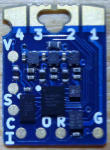
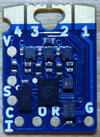
Making the hacker verse PVT distinction clearer.
* Adding PVT images.
 * Converting to a table.
 * Putting required hardware first in the requirements section.
 * Move EVT support into a note.
 * Start using `FOMU_REV` flag.

diff --git a/README.md b/README.md
@@ -36,8 +36,35 @@ FPGAs are complex, weird things, so we'll take a gentle approach and start out b
 * TOC
 {:toc}
 
-
 ## Requirements
+
+### Required Hardware
+
+For this workshop, you will need a Fomu board.
+This workshop may be competed with any model of Fomu, though there are some parts that require you to identify which model you have:
+
+|                  | Hacker | Production |
+| ---------------- | ------ | ---------- |
+| **String**       | hacker | pvt        |
+| **Bash Command** | `export FOMU_REV=hacker` | `export FOMU_REV=pvt` |
+| **Front**        | ![Hacker Hardware Front with case  ](img/hw-hacker-front-bare-small.jpg "Photo of the front of a Fomu Hacker with case")   | ![Production Hardware Front without case](img/hw-pvt-front-bare-small.jpg "Photo of the front of a Fomu Production without case")    |
+| **Back**         | ![Hacker Hardware Back without case](img/hw-hacker-back-bare-small.jpg  "Photo of the back of a Fomu Hacker without case") | ![Production Hardware Back without case ](img/hw-pvt-back-bare-small.jpg  "Photo of the back of a Fomu Production without case")  |
+| **In Case**      | ![Hacker Hardware Back with case   ](img/hw-hacker-back-case-small.jpg  "Photo of the back of a Fomu Hacker with case")    | ![Production Hardware Back with case    ](img/hw-pvt-back-case-small.jpg  "Photo of the back of a Fomu Production with case")     |
+| **Color**        | <span style="background-color: #051b70;">dark blue</span> | <span style="background-color: #03b1c4;">cyan / light blue</span> |
+| **Bootloader**   | Fomu **Hacker** running DFU Bootloader vX.X.X | Fomu **PVT** running DFU Bootloader vX.X.X |
+| **Description**  | These are the original design and cut corners to make it easier to manufacture. If you received one directly from Tim before 36C3, you probably have one of these. Hacker boards have white silkscreen on the back. | If you ordered a Fomu from Crowd Supply, this is the model you'll receive. It is small, and fits in a USB port. There is no silkscreen on it. This model of Fomu has a large silver crystal oscillator that is the tallest component on the board. |
+| **Received at**  | From Tim at 35C3, CCCamp19, HackADay Supercon 2019 | At RISC-V Summit 2019, 36C3, Crowdsupply, Mouser |
+| **Buy more**     | End of Life | [CrowdSupply](https://j.mp/fomu-cs), [Mouser](https://www.mouser.com/ProductDetail/Crowd-Supply/cs-fomu-01?qs=sGAEpiMZZMve4%2FbfQkoj%252BLGf4NUSlZIPJeHn1wSuOWc%3D) |
+
+Your Fomu should be running Foboot v1.8.7 or newer. You can see what version you are running by typing `dfu-util -l` and noting the version number.
+
+Aside from that, you need a computer with a USB port that can run the toolchain software. You should not need any special drivers, though on Linux you may need sudo access, or special udev rules to grant permission to use the USB device from a non-privileged account.
+
+> There are also Fomu EVT boards which were shipped to early backers of the
+> Fomu crowd funding campaign. This model of Fomu is about the size of a credit
+> card. It should have the text "Fomu EVT3" written across it in white
+> silkscreen. If you have a different EVT board such as EVT2 or EVT1, they
+> should work also.
 
 ### Required Files
 
@@ -109,21 +136,6 @@ Ensure it says **(Fomu build)**.  Type `exit` to quit `yosys`.
 > | **[wishbone-tool](https://github.com/xobs/wishbone-utils/)** | Interact with Fomu over USB |
 > | **serial console** | Interact with Python over a virtual console |
 
-
-### Required Hardware
-
-For this workshop, you will need a Fomu board. This workshop may be competed with any model of Fomu, though there are some parts that require you to identify which model you have:
-
-1. **Fomu EVT3**: This model of Fomu is about the size of a credit card. It should have the text "Fomu EVT3" written across it in white silkscreen. If you have a different EVT board such as EVT2 or EVT1, they should work also.
-1. **Fomu PVT1**: If you ordered a Fomu from Crowd Supply, this is the model you'll receive. It is small, and fits in a USB port. There is no silkscreen on it. This model of Fomu has a large silver crystal oscillator that is the tallest component on the board.
-1. **Fomu Hacker**: These are the original design and are easiest to manufacture. If you received one directly from Tim, you probably have one of these. Hacker boards have white silkscreen on the back.
-   ![Hacker Hardware Front with case](img/hw-hacker-front-case-small.jpg "Photo of the front of a Fomu Hacker with case")
-   ![Hacker Hardware Back with case](img/hw-hacker-back-case-small.jpg "Photo of the back of a Fomu Hacker with case")
-   ![Hacker Hardware Back without case](img/hw-hacker-back-bare-small.jpg "Photo of the back of a Fomu Hacker without case")
-
-Your Fomu should be running Foboot v1.8.7 or newer. You can see what version you are running by typing `dfu-util -l` and noting the version number.
-
-Aside from that, you need a computer with a USB port that can run the toolchain software. You should not need any special drivers, though on Linux you may need sudo access, or special udev rules to grant permission to use the USB device from a non-privileged account.
 
 ## Background
 
@@ -657,8 +669,10 @@ The canonical "Hello, world!" of hardware is to blink an LED.  The directory `ve
 
 Enter the `verilog-blink` directory and build the `verilog-blink` demo by using `make`:
 
+**Make sure you set the `FOMU_REV` value to match your hardware! See the Required Hardware section.**
+
 ```sh
-$ make FOMU_REV=hacker
+$ make FOMU_REV=$FOMU_REV
 ...
 Info: Max frequency for clock 'clk': 79.76 MHz (PASS at 12.00 MHz)
 
@@ -690,7 +704,7 @@ Info: [ 78146,  78596) |
 Info: [ 78596,  79046) |*************************
 4 warnings, 0 errors
  PACK     blink.bin
-Built 'blink' for Fomu hacker
+Built 'blink' for Fomu XXXXX
 $
 ```
 
@@ -724,7 +738,7 @@ We can use `DummyUsb` to respond to USB requests and bridge USB to Wishbone, and
 Go to the `litex` directory and build the design;
 
 ```sh
-$ python3 workshop.py --board hacker
+$ python3 workshop.py --board $FOMU_REV
 lxbuildenv: v2019.8.19.1 (run .\workshop.py --lx-help for help)
 lxbuildenv: Skipping git configuration because "skip-git" was found in LX_CONFIGURATION
 lxbuildenv: To fetch from git, run .\workshop.py --placer heap --lx-check-git
